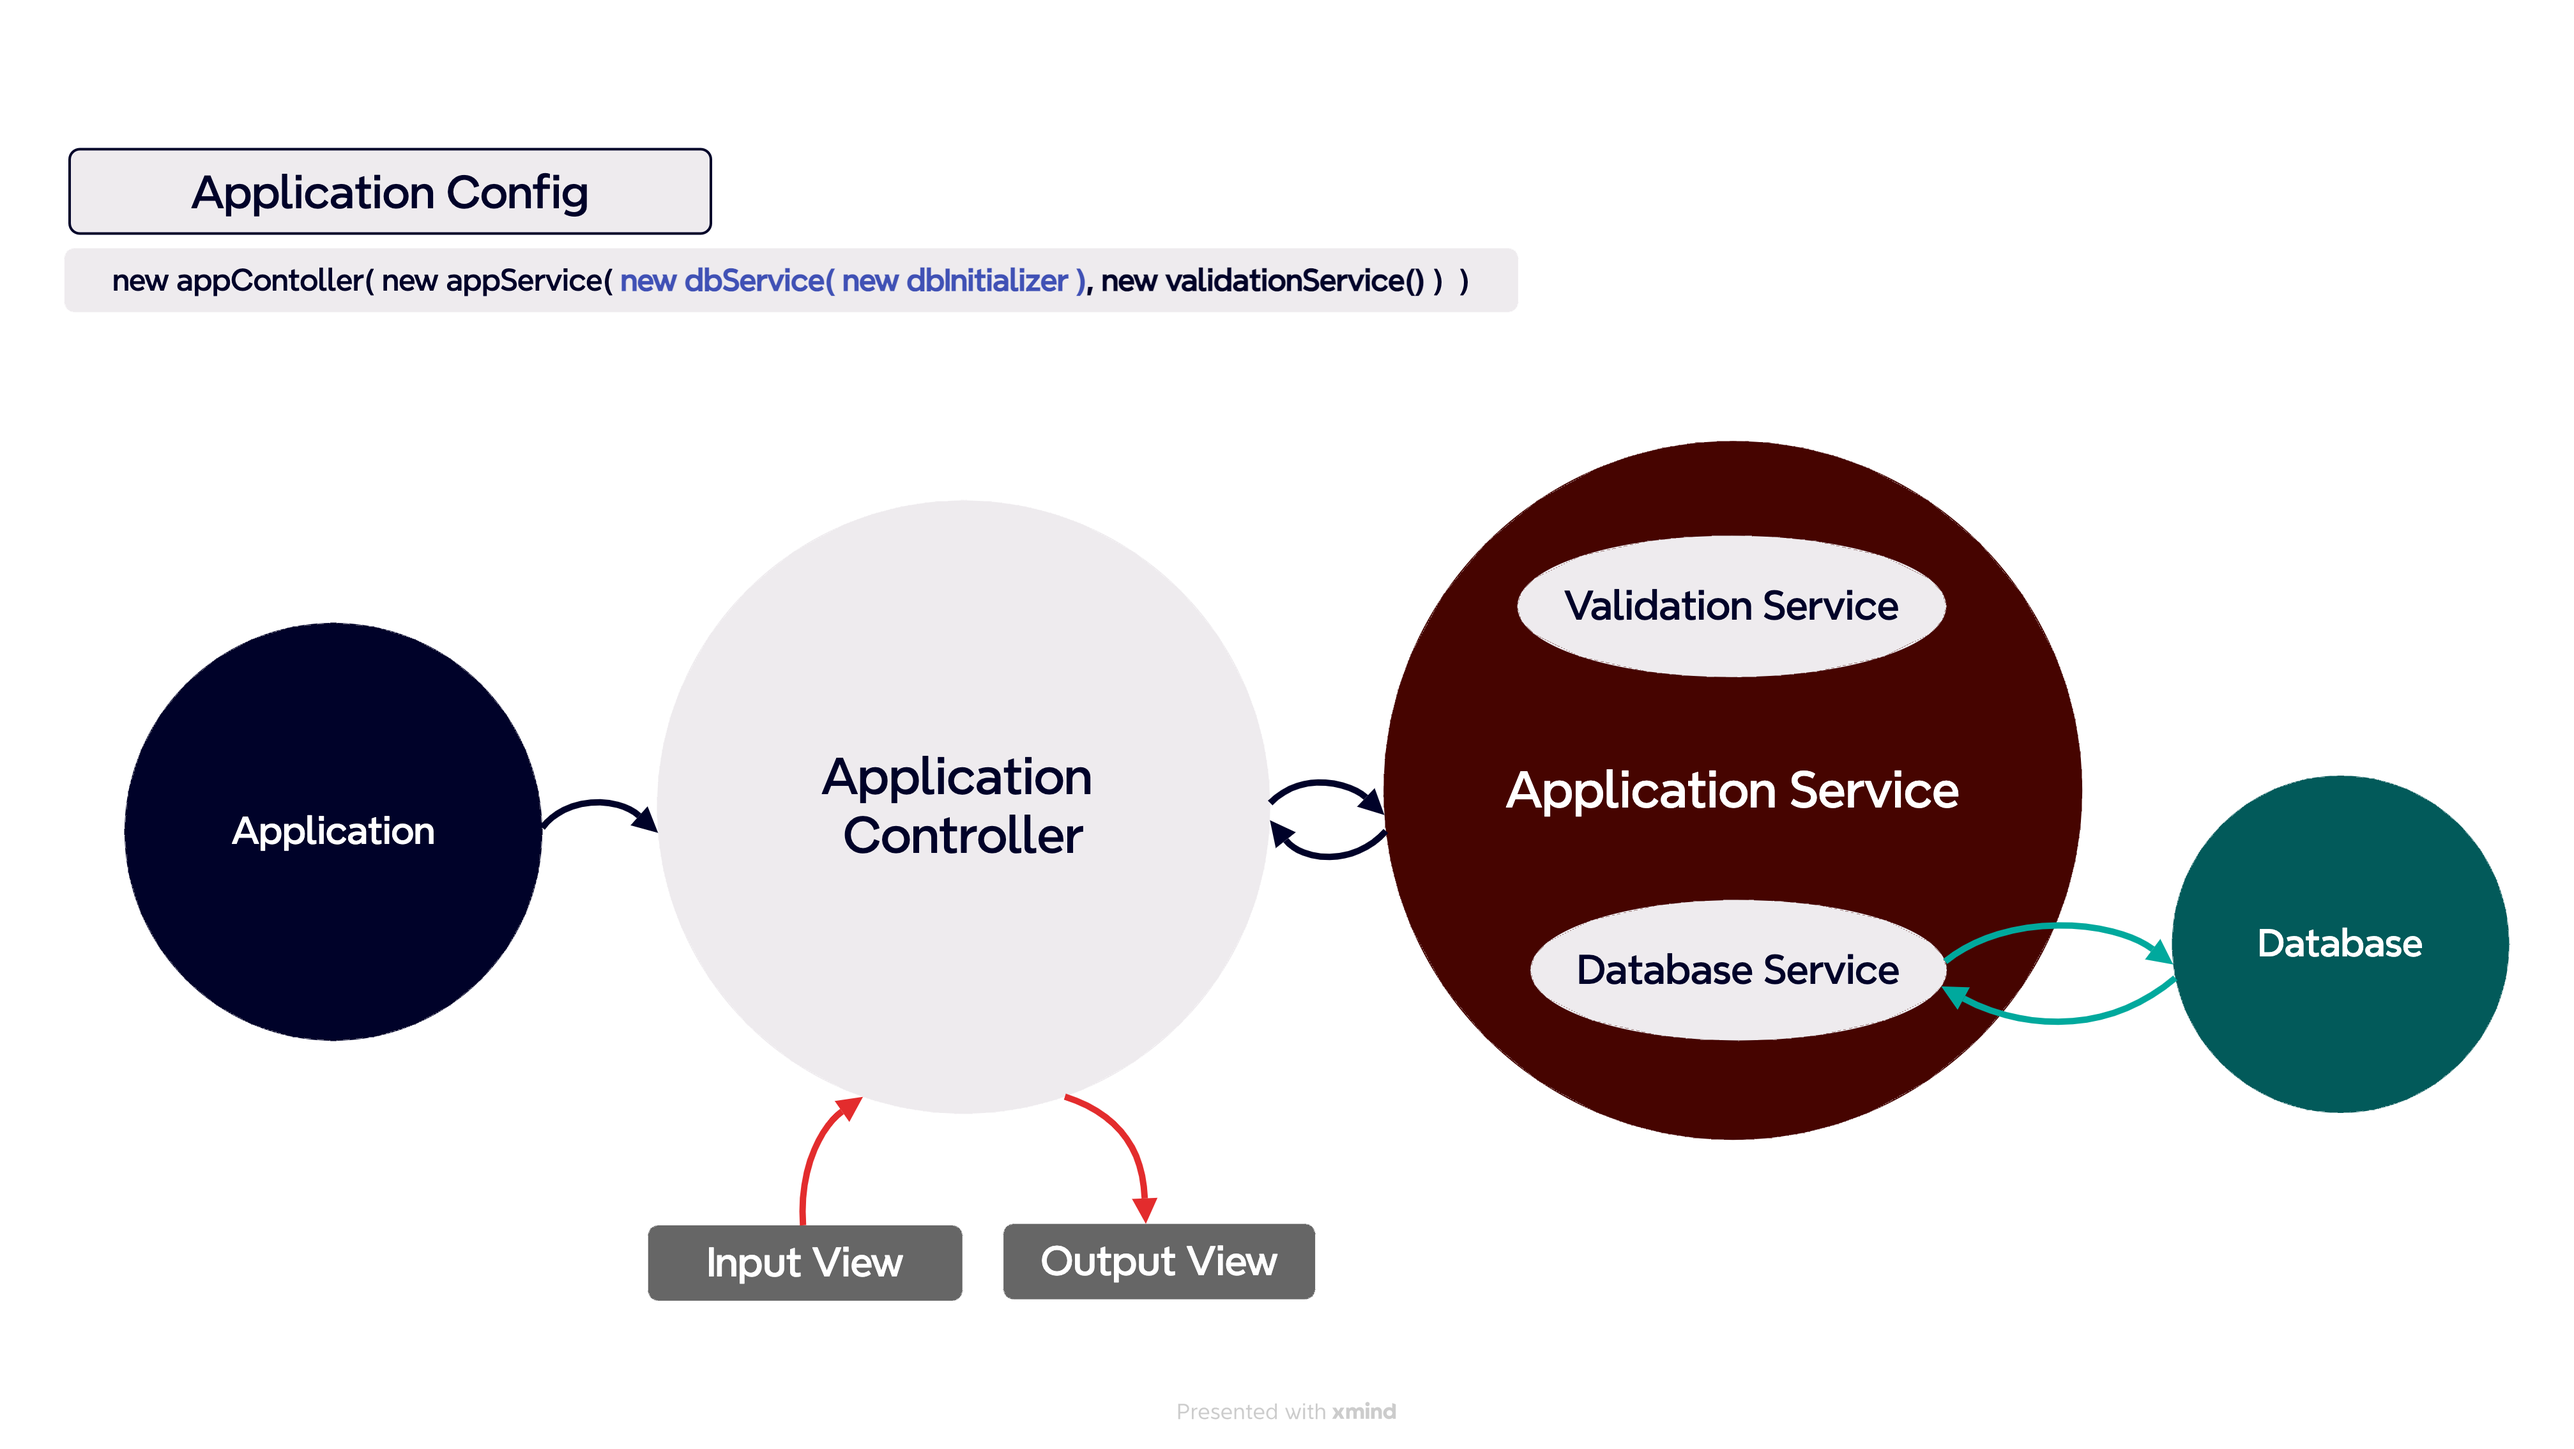
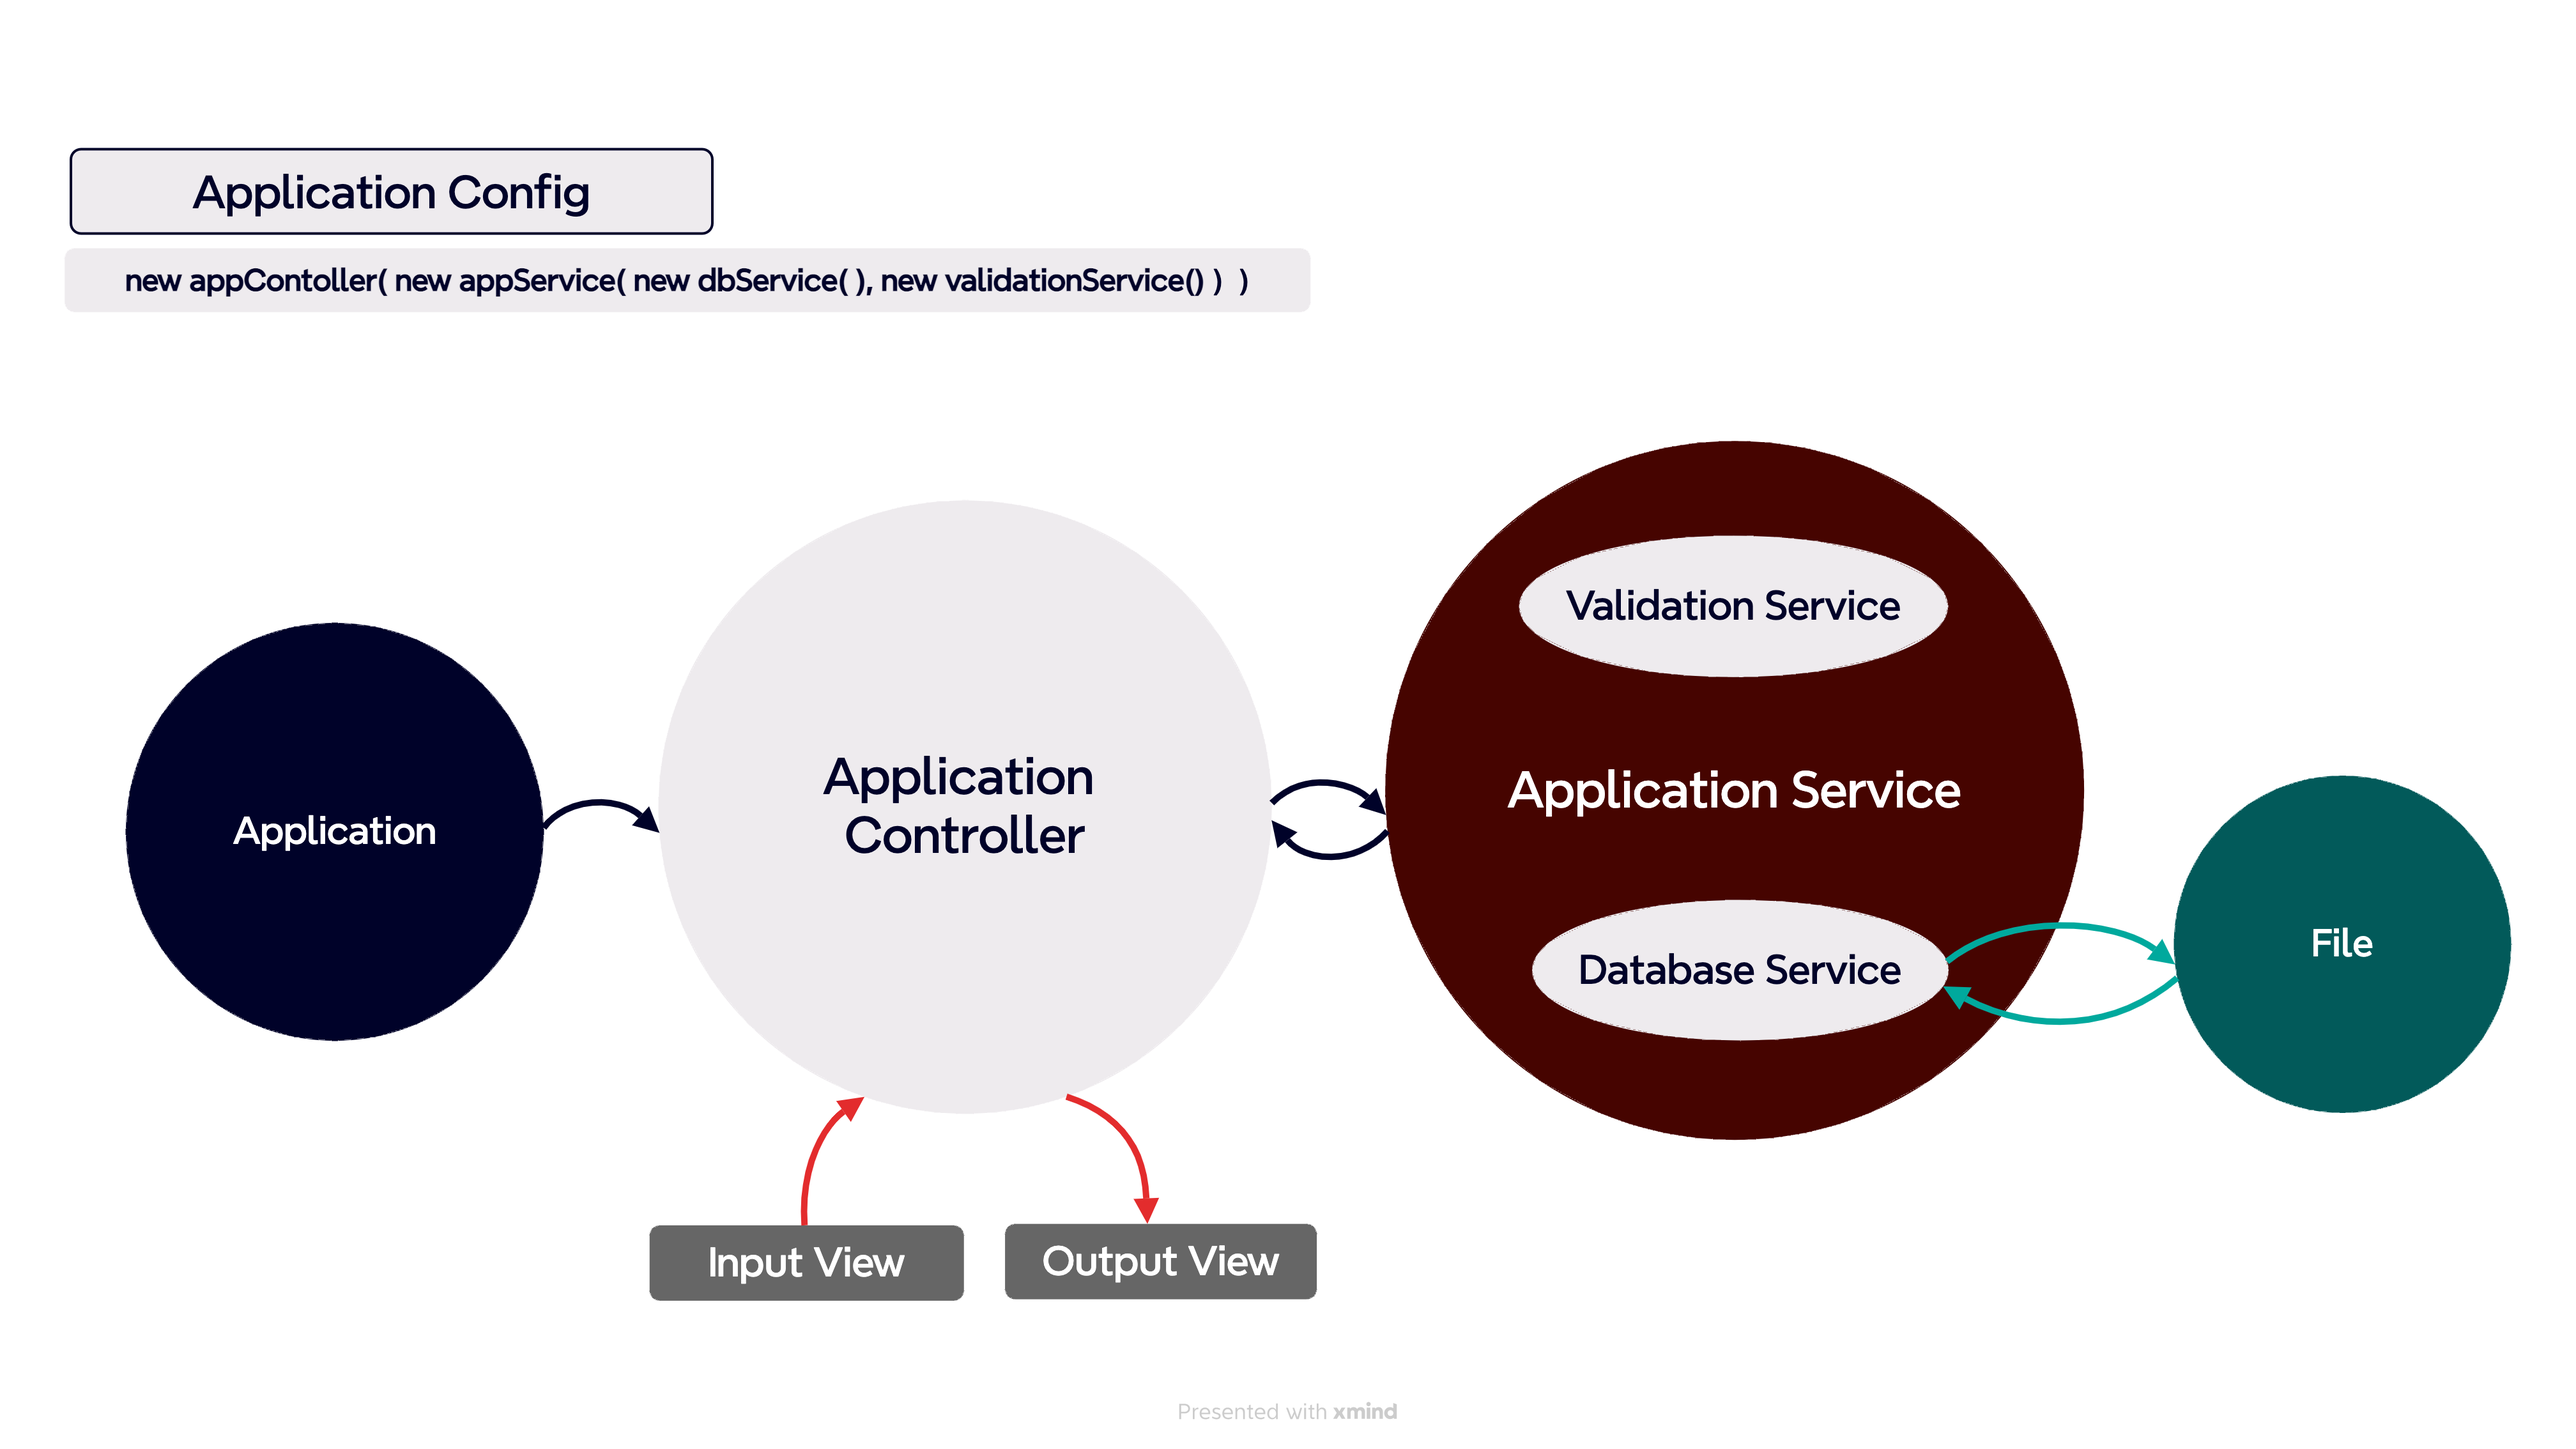
docs: databaseService의 데이터 접근 방식에 대한 변경 사항 추가

diff --git a/README.md b/README.md
@@ -3,6 +3,12 @@
 ![편의점_결제_시스템.png](src/main/resources/image/flowChart.png)
 <hr>
 
+# ⚜ 이전 버전과 달라진 점
+- **version_1**
+  <br>프로젝트 시작 시 파일 정보를 repository에 초기 저장한 후, DatabaseService가 Repository에 접근해 데이터 변경
+- **version_2**
+  <br>파일을 Database로 취급하여, DatabaseService가 products.md, promotions.md 파일에 직접 접근해 데이터 변경
+
 # ⚜ 기능 개요 
 - 할인 혜택, 재고 상황에 대한 정보를 resources 폴더 하위의 products.md, promotions.md 파일에서 읽어와 DB에 저장
 - **상품 구매 및 결제 시스템**
